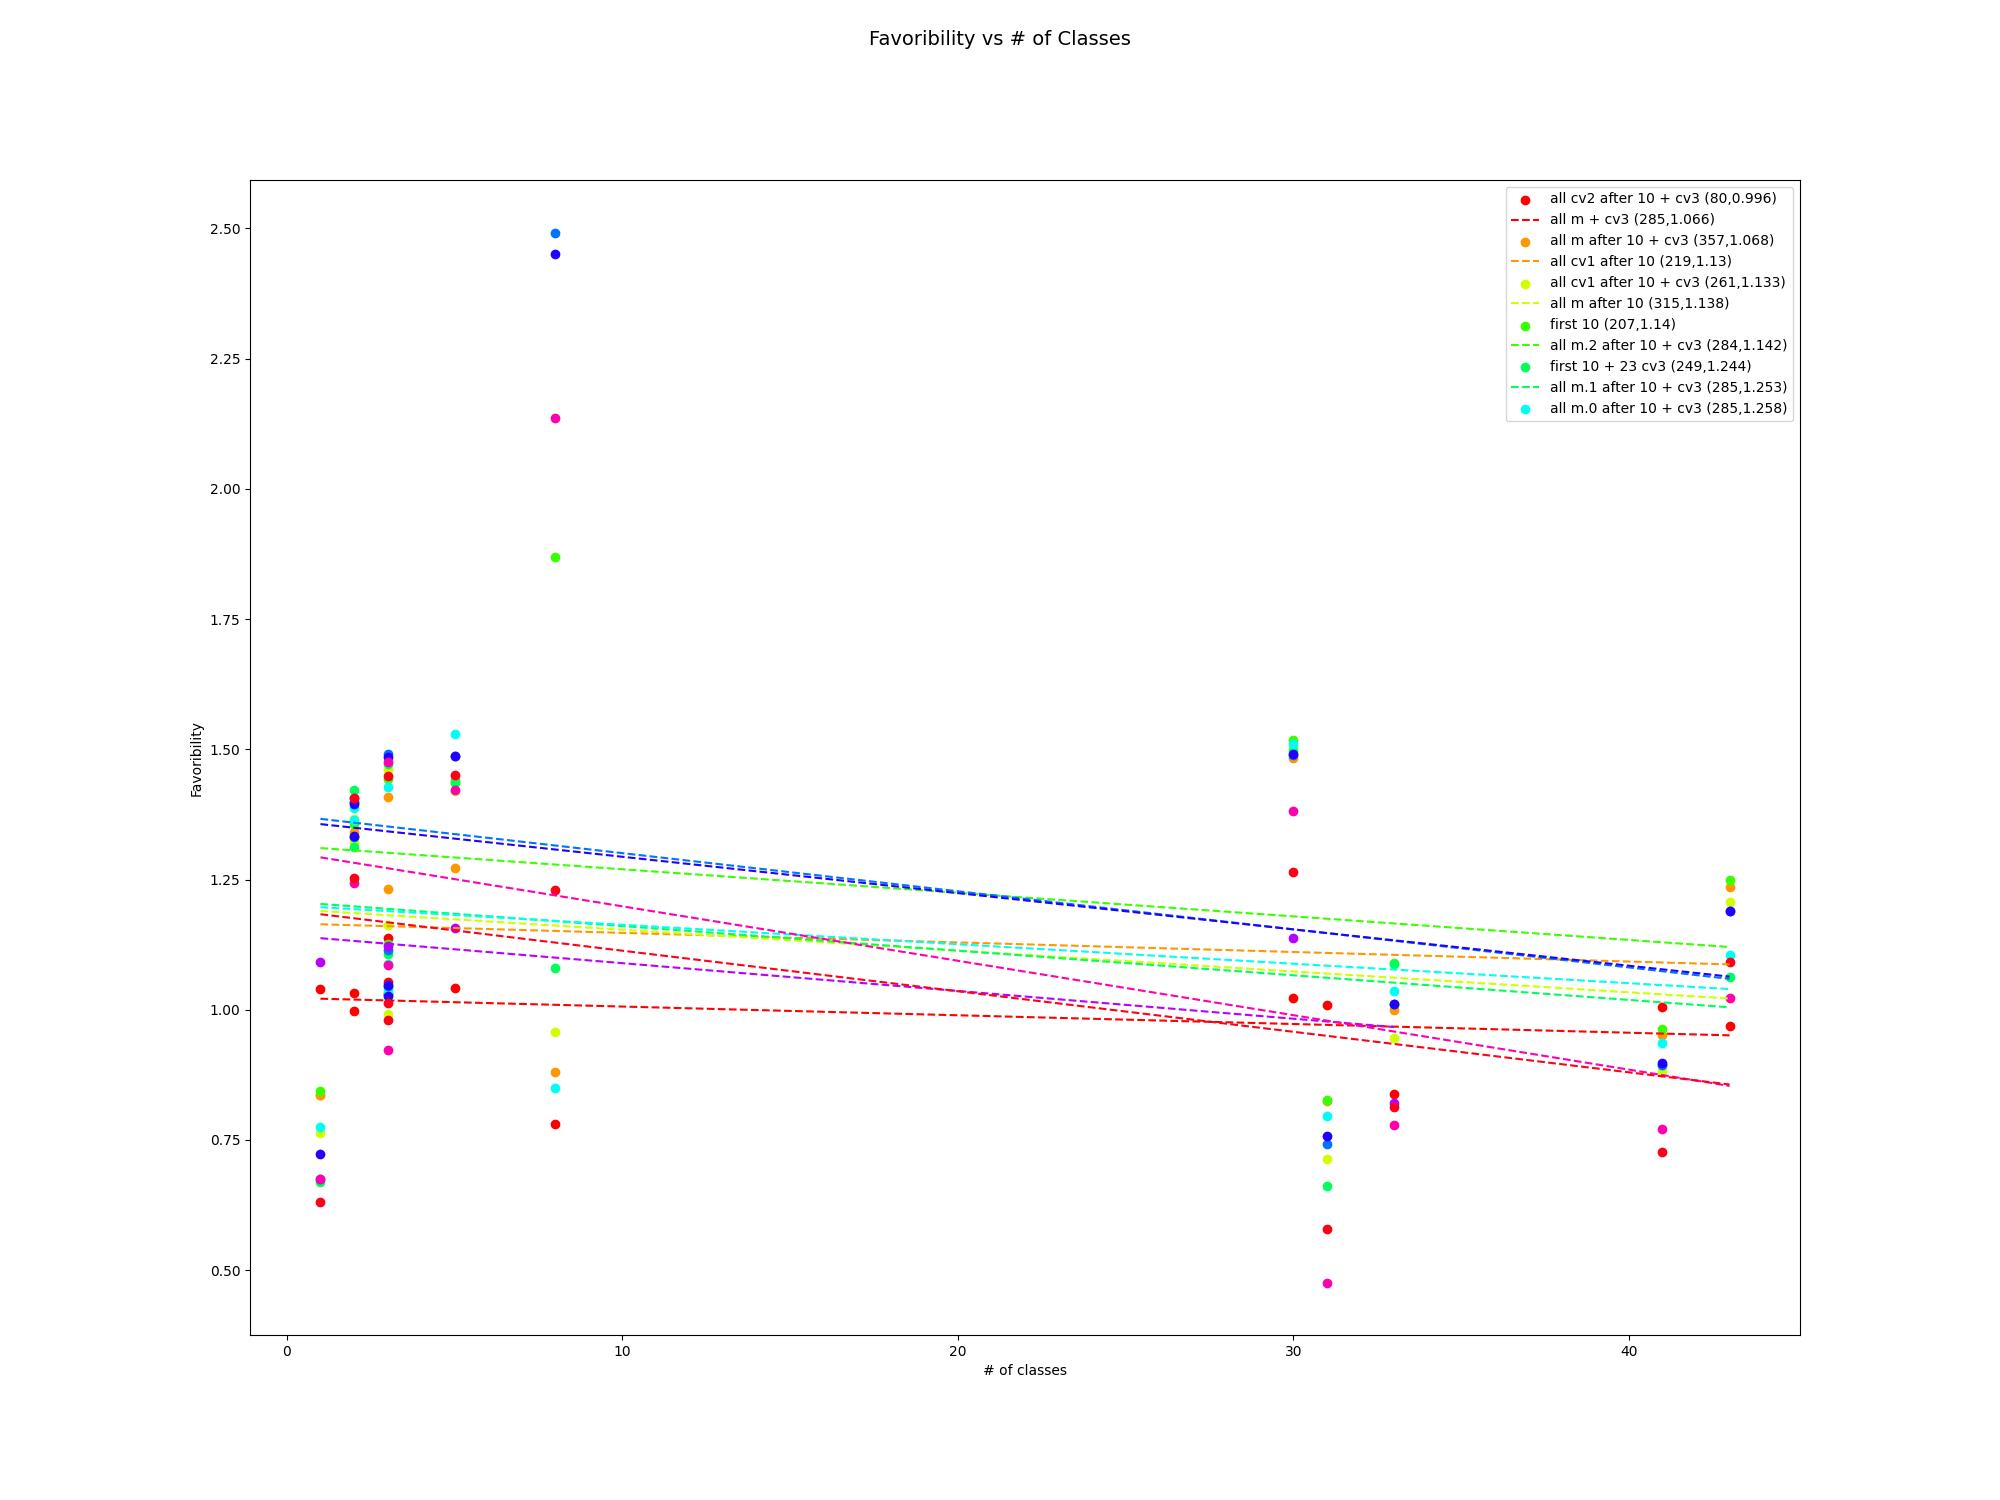
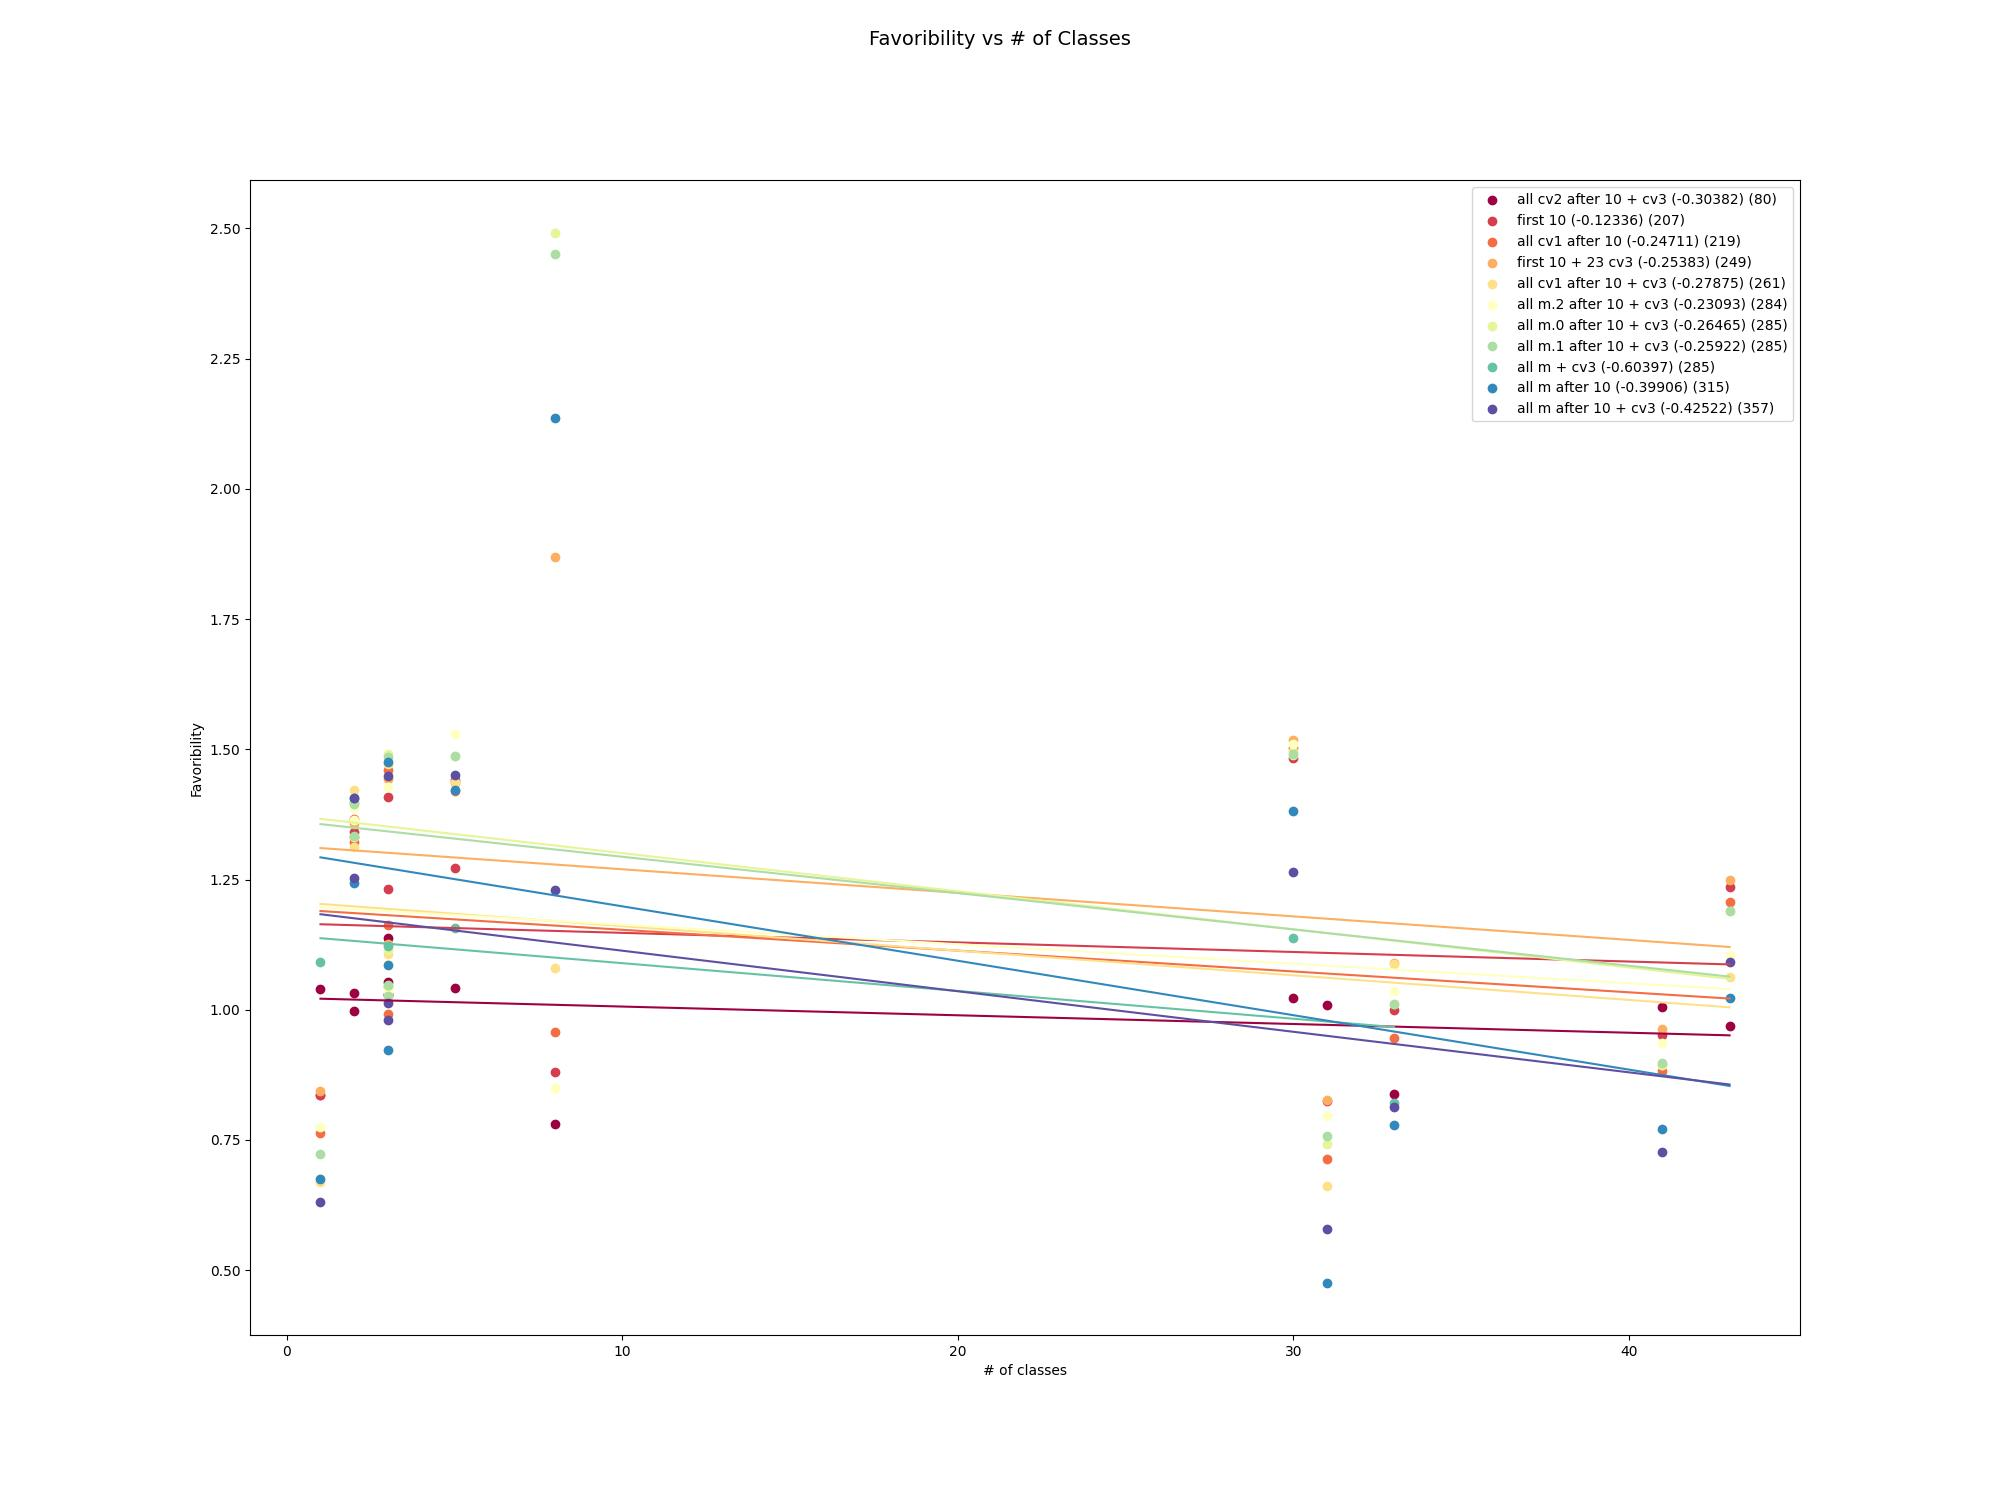
combined branch with corre coef cutoff

diff --git a/saveData.py b/saveData.py
@@ -293,7 +293,65 @@ def plotDataScatterByGradientTotal(mAPs, trainingTimes, file="", unfrozenKey = "
     plt.savefig(save_dir + f'/results/{file}results.jpg', format='jpg')
     plt.close()
 
-def plotDataLineByGradientTotal(mAPs, trainingTimes, name="",file="", unfrozenKey = "unfrozen",datasetAttribute = "size",dontIgnore=[""],ignoreDataset=[""]):
+def plotBarByGradientTotal(mAPs,trainingTimes,name="",file="",unfrozenKey="unfrozen",yVal = "fav"):
+    defaultKeys = list(mAPs.keys())
+    unfrozenExists = (unfrozenKey in defaultKeys)
+    keys = defaultKeys
+    if(unfrozenExists):
+        keys.remove(unfrozenKey)
+    else:
+        return False
+    
+    data = {}
+
+    freezeData = freezeDataLookup.getAllData()
+    keys = sorted(keys, key=freezeData.get)
+
+    plt.figure(figsize=(20,15))
+
+    for grad in keys:
+        datasets = [x for x in list(mAPs[grad].keys())]
+        vals = []
+        for dataset in datasets:
+            mAP = mAPs[grad][dataset]/mAPs[unfrozenKey][dataset]
+            TTime = trainingTimes[grad][dataset]/trainingTimes[unfrozenKey][dataset]
+            if(yVal == "fav"):
+                vals.append(mAP/TTime)
+            elif(yVal == "mAP"):
+                vals.append(mAP)
+            else:
+                vals.append(TTime)
+        data[grad]=statistics.mean(vals)
+
+    names = list(data.keys())
+    values = list(data.values())
+
+    plt.bar(range(len(data)),values,tick_label=[f"{x} ({freezeData[x]})" for x in names])
+    plt.xticks(rotation=90)
+    plt.xlabel("Freeze Set")
+    plt.ylim([(min(values)-0.1*(max(values)-min(values))), (max(values)+0.1*(max(values)-min(values)))])
+    if(yVal == "fav"):
+        plt.suptitle("Average Favoribility vs Freeze Set", fontsize=14)
+        plt.ylabel("Average Favoribility")
+    elif(yVal == "mAP"):
+        plt.suptitle("Average Relative mAP vs Freeze Set", fontsize=14)
+        plt.ylabel("Average Relative mAP")
+    else:
+        plt.suptitle("Average Relative Training Time vs Freeze Set", fontsize=14)
+        plt.ylabel("Average Relative Training Time")
+        
+
+
+    for i in range(len(names)):
+        plt.text(i, values[i], round(values[i],4), ha='center')
+
+    plt.tight_layout()
+    plt.savefig(save_dir + f'/results/{file}results.jpg', format='jpg')
+    plt.close()
+
+
+
+def plotDataLineByGradientTotal(mAPs, trainingTimes, name="",file="",correCutoff=0, yLimToLSRL = False,unfrozenKey = "unfrozen",datasetAttribute = "size",dontIgnore=[""],ignoreDataset=[""]):
     defaultKeys = list(mAPs.keys())
     unfrozenExists = (unfrozenKey in defaultKeys)
     keys = defaultKeys
@@ -312,6 +370,7 @@ def plotDataLineByGradientTotal(mAPs, trainingTimes, name="",file="", unfrozenKe
 
     annotations = {}
     averages = {}
+    lines = []
 
     for i, grad in enumerate(keys):
         datasets = [x for x in list(mAPs[grad].keys())]
@@ -345,13 +404,27 @@ def plotDataLineByGradientTotal(mAPs, trainingTimes, name="",file="", unfrozenKe
         z=np.polyfit(NxVals,NyVals,1)
         p=np.poly1d(z)
 
-        Cmap=cm.get_cmap('hsv',len(keys))
+        Cmap=cm.get_cmap('Spectral',len(keys))
 
 
         x = np.linspace(SxVals[0],SxVals[-1],5000)
 
-        plt.scatter(SxVals,SyVals,c=Cmap(i))
-        plt.plot(x,p(x),linestyle='dashed',c=Cmap(i))
+        corrCoe = np.corrcoef(NxVals,NyVals)
+        # if(abs(corrCoe[1][0])>correCutoff):
+        #     plt.scatter(SxVals,SyVals,c=Cmap(i),label=f"{grad} ({round(corrCoe[1][0],5)}) ({freezeData[grad]})")
+        #     plt.plot(x,p(x),c=Cmap(i))
+
+        #     lines.append(p)
+        
+        plt.scatter(SxVals,SyVals,c=Cmap(i),label=f"{grad} ({round(corrCoe[1][0],5)}) ({freezeData[grad]})")
+        if(abs(corrCoe[1][0])>correCutoff):
+            plt.plot(x,p(x),c=Cmap(i))
+        else:
+            plt.plot(x,p(x),c=Cmap(i),linestyle=(0,(5,10)))
+        lines.append(p)
+    
+    if(len(lines) == 0):
+        return
 
 
     # for key,val in annotations.items():
@@ -371,9 +444,20 @@ def plotDataLineByGradientTotal(mAPs, trainingTimes, name="",file="", unfrozenKe
         plt.suptitle("Favoribility vs # of Training Images", fontsize=14)
     plt.ylabel("Favoribility")
 
+    if(yLimToLSRL):
+        xMinMax = plt.xlim()
+        
+        MyVals = []
+        for lin in lines:
+            MyVals.append(lin(xMinMax[0]))
+            MyVals.append(lin(xMinMax[1]))
+        ylim = [min(MyVals),max(MyVals)]
+        plt.ylim([(ylim[0]-0.1*(ylim[1]-ylim[0])), (ylim[1]+0.1*(ylim[1]-ylim[0]))])
+
     legendLabels = keys
     legendLabels = sorted(keys, key=averages.get)
-    plt.legend([f"{x} ({freezeData[x]},{round(averages[x],3)})" for x in legendLabels], loc="best")
+    #plt.legend([f"{x} ({freezeData[x]},{round(averages[x],3)})" for x in legendLabels], loc="best")
+    plt.legend(loc="best")
     plt.savefig(save_dir + f'/results/{file}results.jpg', format='jpg')
     plt.close()
 

diff --git a/readJSONData.py b/readJSONData.py
@@ -143,10 +143,24 @@ def combineResults(save_dir=d_save_dir,
 
 
     #saveData.plotDataScatterByGradient(NmAP,NTrainT,file="layer/Relative ")
-    saveData.plotDataLineByGradientTotal(NmAP,NTrainT,file="Relative Class ",datasetAttribute="classes", dontIgnore = ig,ignoreDataset=datasetIgnore)
-    saveData.plotDataLineByGradientTotal(NmAP,NTrainT,file="Relative Ratio ",datasetAttribute="ratio", dontIgnore = ig,ignoreDataset=datasetIgnore)
-    saveData.plotDataLineByGradientTotal(NmAP,NTrainT,file="Relative Size ",datasetAttribute="size",dontIgnore=ig,ignoreDataset=datasetIgnore)
-    saveData.plotDataLineByGradientTotal(NmAP,NTrainT,file="Relative Count ",datasetAttribute="count",dontIgnore=ig,ignoreDataset=datasetIgnore)
+    # saveData.plotDataLineByGradientTotal(NmAP,NTrainT,file="Relative Class ",datasetAttribute="classes", dontIgnore = ig,ignoreDataset=datasetIgnore)
+    # saveData.plotDataLineByGradientTotal(NmAP,NTrainT,file="Relative Ratio ",datasetAttribute="ratio", dontIgnore = ig,ignoreDataset=datasetIgnore)
+    # saveData.plotDataLineByGradientTotal(NmAP,NTrainT,file="Relative Size ",datasetAttribute="size",dontIgnore=ig,ignoreDataset=datasetIgnore)
+    # saveData.plotDataLineByGradientTotal(NmAP,NTrainT,file="Relative Count ",datasetAttribute="count",dontIgnore=ig,ignoreDataset=datasetIgnore)
+
+    # saveData.plotDataLineByGradientTotal(NmAP,NTrainT,file="Relative LSRL Class ",yLimToLSRL=True,datasetAttribute="classes", dontIgnore = ig,ignoreDataset=datasetIgnore)
+    # saveData.plotDataLineByGradientTotal(NmAP,NTrainT,file="Relative LSRL Ratio ",yLimToLSRL=True,datasetAttribute="ratio", dontIgnore = ig,ignoreDataset=datasetIgnore)
+    # saveData.plotDataLineByGradientTotal(NmAP,NTrainT,file="Relative LSRL Size ",yLimToLSRL=True,datasetAttribute="size",dontIgnore=ig,ignoreDataset=datasetIgnore)
+    # saveData.plotDataLineByGradientTotal(NmAP,NTrainT,file="Relative LSRL Count ",yLimToLSRL=True,datasetAttribute="count",dontIgnore=ig,ignoreDataset=datasetIgnore)
+
+    # saveData.plotDataLineByGradientTotal(NmAP,NTrainT,file="Relative Cutoff Class ",correCutoff=0.5,yLimToLSRL=True,datasetAttribute="classes",ignoreDataset=datasetIgnore)
+    # saveData.plotDataLineByGradientTotal(NmAP,NTrainT,file="Relative Cutoff Ratio ",correCutoff=0.5,yLimToLSRL=True,datasetAttribute="ratio",ignoreDataset=datasetIgnore)
+    # saveData.plotDataLineByGradientTotal(NmAP,NTrainT,file="Relative Cutoff Size ",correCutoff=0.5,yLimToLSRL=True,datasetAttribute="size",ignoreDataset=datasetIgnore)
+    # saveData.plotDataLineByGradientTotal(NmAP,NTrainT,file="Relative Cutoff Count ",correCutoff=0.5,yLimToLSRL=True,datasetAttribute="count",ignoreDataset=datasetIgnore)
+
+    saveData.plotBarByGradientTotal(NmAP,NTrainT,yVal="fav",file="Overall Fav ")
+    saveData.plotBarByGradientTotal(NmAP,NTrainT,yVal="time",file="Overall Time ")
+    saveData.plotBarByGradientTotal(NmAP,NTrainT,yVal="mAP",file="Overall mAP ")
 
 if __name__ == "__main__":
     combineResults()
